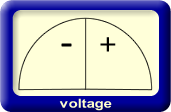
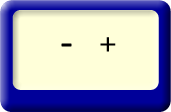
- flatten all static graphics in voltmeter - add tick marks around voltmeter display, convert guage to Java shapes - revise the Fireworks image used for the voltmeter body

diff --git a/faraday/src/edu/colorado/phet/faraday/view/VoltmeterGraphic.java b/faraday/src/edu/colorado/phet/faraday/view/VoltmeterGraphic.java
@@ -11,22 +11,24 @@
 
 package edu.colorado.phet.faraday.view;
 
-import java.awt.Color;
-import java.awt.Component;
-import java.awt.Dimension;
-import java.awt.RenderingHints;
+import java.awt.*;
+import java.awt.geom.Arc2D;
 import java.awt.geom.Ellipse2D;
+import java.awt.geom.Line2D;
 import java.awt.geom.Point2D;
+import java.awt.image.BufferedImage;
 
 import edu.colorado.phet.common.util.SimpleObserver;
 import edu.colorado.phet.common.view.graphics.shapes.Arrow;
+import edu.colorado.phet.common.view.phetgraphics.*;
 import edu.colorado.phet.common.view.phetgraphics.CompositePhetGraphic;
+import edu.colorado.phet.common.view.phetgraphics.GraphicLayerSet;
 import edu.colorado.phet.common.view.phetgraphics.PhetImageGraphic;
 import edu.colorado.phet.common.view.phetgraphics.PhetShapeGraphic;
+import edu.colorado.phet.common.view.util.SimStrings;
 import edu.colorado.phet.faraday.FaradayConfig;
 import edu.colorado.phet.faraday.model.Voltmeter;
 import edu.colorado.phet.faraday.util.IRescaler;
-
 
 /**
  * VoltmeterGraphic is the graphic representation of a voltmeter.
@@ -37,6 +39,23 @@ import edu.colorado.phet.faraday.util.IRescaler;
  * @version $Revision$
  */
 public class VoltmeterGraphic extends CompositePhetGraphic implements SimpleObserver {
+    
+    //----------------------------------------------------------------------------
+    // Class data
+    //----------------------------------------------------------------------------
+    
+    // Pivot point
+    private static final Point PIVOT_POINT = new Point( 85, 82 );
+
+    // Screw that anchors needle.
+    private static final Color SCREW_COLOR = Color.BLUE;
+    private static final int SCREW_RADIUS = 5;
+    
+    // Needle
+    private static final Color NEEDLE_COLOR = Color.BLUE;
+    private static final int NEEDLE_LENGTH = 66;
+    private static final Dimension NEEDLE_HEAD_SIZE = new Dimension( 12, 15 );
+    private static final int NEEDLE_TAIL_WIDTH = 3;
     
     //----------------------------------------------------------------------------
     // Instance data
@@ -68,42 +87,39 @@ public class VoltmeterGraphic extends CompositePhetGraphic implements SimpleObse
         // Enable antialiasing for all children.
         setRenderingHints( new RenderingHints( RenderingHints.KEY_ANTIALIASING, RenderingHints.VALUE_ANTIALIAS_ON ) );
         
-        // Meter body
+        // Background, contains all of the static graphic components.
         {
-            PhetImageGraphic body = new PhetImageGraphic( component, FaradayConfig.VOLTMETER_IMAGE );
-            addGraphic( body );
-            int rx = body.getImage().getWidth() / 2;
-            int ry = body.getImage().getHeight();
-            body.setRegistrationPoint( rx, ry );
+            BackgroundGraphic background = new BackgroundGraphic( component );
+            addGraphic( background );
         }
         
         // Screw that holds the needle in place.
         {
-            int diameter = 11;
             PhetShapeGraphic screw = new PhetShapeGraphic( component );
             addGraphic( screw );
-            screw.setShape( new Ellipse2D.Double( 0, 0, diameter, diameter ) );
-            screw.setPaint( Color.BLUE );
-            int rx = ( diameter / 2 ) + 1;
-            int ry = rx;
-            screw.setRegistrationPoint( rx, ry );
-            screw.setLocation( 0, -23 );
+            screw.setShape( new Ellipse2D.Double( 0, 0, 2 * SCREW_RADIUS, 2 * SCREW_RADIUS ) );
+            screw.setPaint( SCREW_COLOR );
+            screw.centerRegistrationPoint();
+            screw.setLocation( PIVOT_POINT );
         }
         
         // Needle
         {
             Point2D tail = new Point2D.Double( 0, 0 );
-            Point2D tip = new Point2D.Double( 0, -70 );
-            Dimension headSize = new Dimension( 12, 15 );
-            int tailWidth = 3;
-            Arrow arrow = new Arrow( tail, tip, headSize.height, headSize.width, tailWidth );
+            Point2D tip = new Point2D.Double( 0, -NEEDLE_LENGTH );
+            Arrow arrow = new Arrow( tail, tip, NEEDLE_HEAD_SIZE.height, NEEDLE_HEAD_SIZE.width, NEEDLE_TAIL_WIDTH );
             _needle = new PhetShapeGraphic( component );
             addGraphic( _needle );
             _needle.setShape( arrow.getShape() );
-            _needle.setPaint( Color.BLUE );
-            _needle.setLocation( 0, -23 );
+            _needle.setPaint( NEEDLE_COLOR );
+            _needle.setLocation( PIVOT_POINT );
         }
-        
+
+        // Registration point at bottom center.
+        int rx = getWidth() / 2;
+        int ry = getHeight();
+        setRegistrationPoint( rx, ry );
+
         update();
     }
 
@@ -146,4 +162,136 @@ public class VoltmeterGraphic extends CompositePhetGraphic implements SimpleObse
             repaint();
         }
     }
+    
+    //----------------------------------------------------------------------------
+    // Inner classes
+    //----------------------------------------------------------------------------
+    
+    /**
+     * BackgroundGraphic creates a background image from a bunch of static 
+     * graphic components.
+     *
+     * @author Chris Malley (cmalley@pixelzoom.com)
+     * @version $Revision$
+     */
+    private static class BackgroundGraphic extends PhetImageGraphic {
+        
+        // Guage
+        private static final int GUAGE_RADIUS = NEEDLE_LENGTH;
+        private static final Color GUAGE_COLOR = Color.BLACK;
+        private static final Stroke GUAGE_STROKE = new BasicStroke( 1f );
+        
+        // Title
+        private static final Font TITLE_FONT = new Font( "SansSerif", Font.PLAIN, 14 );
+        private static final Color TITLE_COLOR = Color.WHITE;
+        
+        // Tick marks
+        private static final double MINOR_TICK_SPACING = 180.0 / 40; // degrees
+        private static final int MINOR_TICKS_PER_MAJOR_TICK = 4;
+        private static final int MAJOR_TICK_LENGTH = 8;
+        private static final int MINOR_TICK_LENGTH = 4;
+        private static final Color MAJOR_TICK_COLOR = Color.BLACK;
+        private static final Color MINOR_TICK_COLOR = Color.BLACK;
+        private static final Stroke MAJOR_TICK_STROKE = new BasicStroke( 1f );
+        private static final Stroke MINOR_TICK_STROKE = MAJOR_TICK_STROKE;
+            
+        /**
+         * Sole constructor.
+         * 
+         * @param component
+         */
+        public BackgroundGraphic( Component component ) {
+            super( component );
+            
+            // This will be flattened after we've added graphics to it.
+            GraphicLayerSet graphicLayerSet = new GraphicLayerSet( component );
+            
+            // Meter body
+            PhetImageGraphic body = new PhetImageGraphic( component, FaradayConfig.VOLTMETER_IMAGE );
+            graphicLayerSet.addGraphic( body );
+            
+            // Title label
+            {
+                String s = SimStrings.get( "VoltmeterGraphic.title" );
+                PhetTextGraphic title = new PhetTextGraphic( component, TITLE_FONT, s, TITLE_COLOR );
+                title.centerRegistrationPoint();
+                title.setLocation( body.getWidth() / 2, body.getHeight() + 3 );
+                graphicLayerSet.addGraphic( title );
+            }
+            
+            // Meter guage, a 180-degree chorded arc.
+            {
+                PhetShapeGraphic guage = new PhetShapeGraphic( component );
+                double diameter = 2 * GUAGE_RADIUS;
+                guage.setShape( new Arc2D.Double( 0, 0, diameter, diameter, 0, 180, Arc2D.CHORD ) );
+                guage.setBorderColor( GUAGE_COLOR );
+                guage.setStroke( GUAGE_STROKE );
+                guage.centerRegistrationPoint();
+                guage.setLocation( PIVOT_POINT );
+                graphicLayerSet.addGraphic( guage );
+            }
+            
+            // Vertical line at zero-point of guage.
+            {
+                PhetShapeGraphic line = new PhetShapeGraphic( component );
+                line.setShape( new Line2D.Double( 0, 0, 0, -GUAGE_RADIUS ) );
+                line.setBorderColor( GUAGE_COLOR );
+                line.setStroke( GUAGE_STROKE );
+                line.setLocation( PIVOT_POINT );
+                graphicLayerSet.addGraphic( line );
+            }
+            
+            // Major and minor tick marks around the outside of the guage.
+            {
+                double angle = MINOR_TICK_SPACING;
+                double tickCount = 1;
+                while ( angle < 90 ) {
+                    
+                    // Major or minor tick mark?
+                    int length = MINOR_TICK_LENGTH;
+                    Color color = MINOR_TICK_COLOR;
+                    Stroke stroke = MINOR_TICK_STROKE;
+                    if ( tickCount % MINOR_TICKS_PER_MAJOR_TICK == 0 ) {
+                        length = MAJOR_TICK_LENGTH;
+                        color = MAJOR_TICK_COLOR;
+                        stroke = MAJOR_TICK_STROKE;
+                    }
+                    
+                    // Positive tick mark
+                    PhetShapeGraphic positiveTick = new PhetShapeGraphic( component );
+                    positiveTick.setShape( new Line2D.Double( 0, 0, 0, length ) );
+                    positiveTick.setBorderColor( color );
+                    positiveTick.setStroke( stroke );
+                    positiveTick.setLocation( PIVOT_POINT );
+                    positiveTick.translate( 0, -GUAGE_RADIUS );
+                    positiveTick.rotate( Math.toRadians( angle ) );
+                    graphicLayerSet.addGraphic( positiveTick );
+                    
+                    // Negative tick mark
+                    PhetShapeGraphic negativeTick = new PhetShapeGraphic( component );
+                    negativeTick.setShape( new Line2D.Double( 0, 0, 0, length ) );
+                    negativeTick.setBorderColor( color );
+                    negativeTick.setStroke( stroke );
+                    negativeTick.setLocation( PIVOT_POINT );
+                    negativeTick.translate( 0, -GUAGE_RADIUS );
+                    negativeTick.rotate( Math.toRadians( -angle ) );
+                    graphicLayerSet.addGraphic( negativeTick );
+                    
+                    angle += MINOR_TICK_SPACING;
+                    tickCount++;
+                }
+            }
+            
+            // Flatten the graphic layer set.
+            {
+                Dimension size = graphicLayerSet.getSize();
+                BufferedImage bufferedImage = new BufferedImage( size.width, size.height, BufferedImage.TYPE_INT_ARGB );
+                Graphics2D g2 = bufferedImage.createGraphics();
+                RenderingHints hints = new RenderingHints( RenderingHints.KEY_ANTIALIASING, RenderingHints.VALUE_ANTIALIAS_ON );
+                g2.setRenderingHints( hints );
+                graphicLayerSet.paint( g2 );
+                setImage( bufferedImage );
+            }
+        }
+    } // class Background
 }
